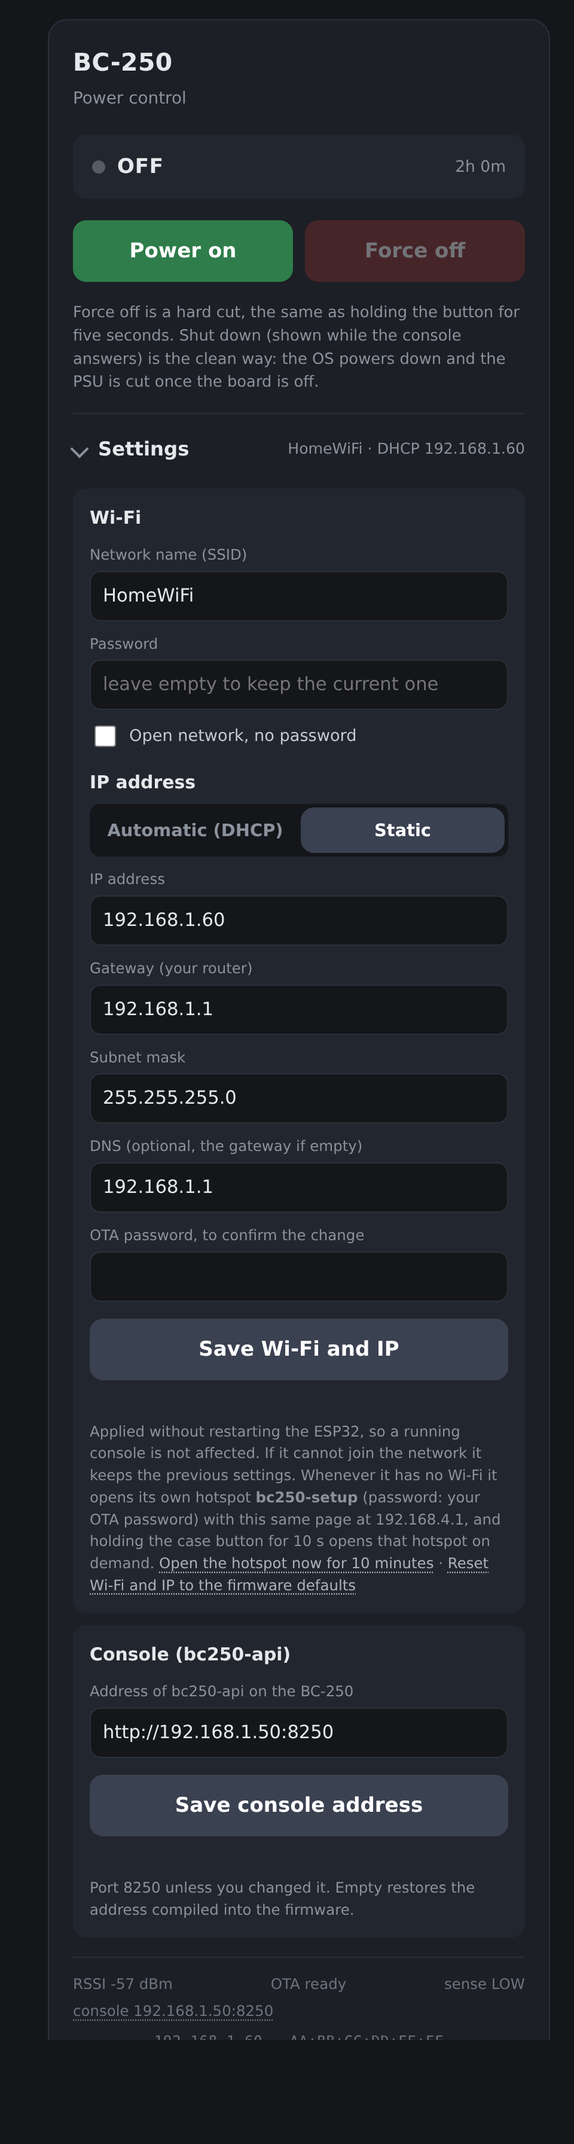
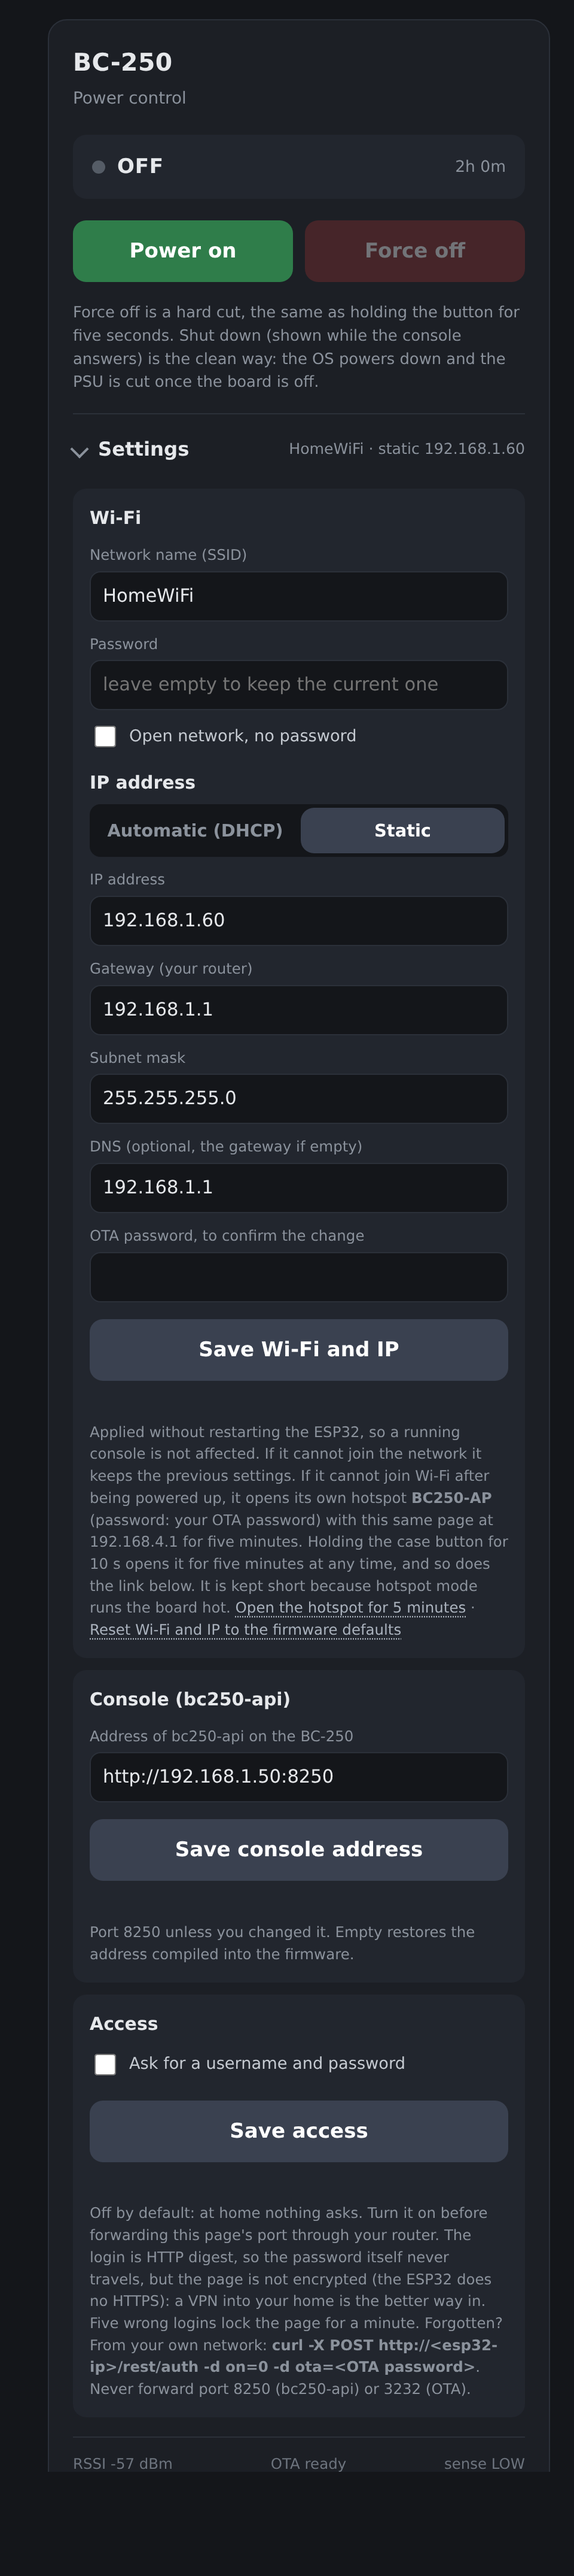
ESP32 page: optional login (digest), off by default, for a forwarded port
For those who want to power the console from outside the house through a
NAT-forwarded port. Off by default, so nothing changes at home. The Access
box under Settings turns it on with a username and password; that needs the
OTA password once (a change that can lock the owner out, like /rest/net),
and from then on being logged in is enough to change them or turn it off.
Every handler starts with authGate(): the page, /rest/status, the power
buttons and the settings all ask for it.

HTTP digest, so the password never travels, verified by the sketch itself:
WebServer::authenticate() keeps only the last nonce it issued, so with two
browsers open each request would be re-challenged and every miss would look
like a wrong password. A ring of four nonces (10 min) instead, and only a
wrong response to a known nonce counts. Five wrong logins lock the page for a
minute; each wrong one costs 300 ms. A forgotten password is undone with
the OTA password: POST /rest/auth on=0 ota=... gets past the gate on purpose,
the only such path. /rest/status carries "auth"; the footer says "login on".

The docs say plainly what this is: a lock, not a vault. The ESP32 does no
HTTPS, so the traffic is readable; a VPN home is the better way in, and if
forwarding, only port 80, never 8250 or 3232. Settings screenshot re-rendered.

Verified on hardware: login off, everything open; on with the OTA password,
plain requests get 401 + Digest challenge; curl --digest passes for GET, the
[…]

Changed region(s): [[0.125, 0.0, 0.9375, 0.9606], [0.5, 0.3719, 0.875, 0.4028]]

diff --git a/docs/power-page.md b/docs/power-page.md
@@ -55,10 +55,10 @@ or the service not installed) the panel shows a short notice with **retry** and 
 links and a pointer to [Stats and switches over the network](api.md), and it says `asleep` during a fake sleep.
 The footer's `console …` entry shows the `bc250-api` address; tapping it opens **Settings**.
 
-## Settings: Wi-Fi, IP address, console address
+## Settings: Wi-Fi, IP address, console address, login
 
 <p align="center">
-  <img src="images/esp32-settings.png" alt="The Settings section of the ESP32 page: Wi-Fi name and password, DHCP or static IP with address, gateway, mask and DNS, the OTA password to confirm, and a separate box for the bc250-api address" width="300">
+  <img src="images/esp32-settings.png" alt="The Settings section of the ESP32 page: Wi-Fi name and password, DHCP or static IP with address, gateway, mask and DNS, the OTA password to confirm, a box for the bc250-api address, and the Access box with the login checkbox" width="300">
 </p>
 
 Everything that used to need a reflash lives in one collapsible **Settings** section at the bottom of
@@ -123,12 +123,34 @@ As a last resort, if Wi-Fi stays down for an hour **while the console is off**, 
 itself to come back with a fresh radio; that restart does not count as a power-up, so it opens no
 hotspot. It never restarts while the console runs.
 
+**Access: a login for the page.** Off by default, so at home nothing asks. The **Access** block under
+Settings turns it on with a username and a password (8 to 63 characters); turning it on needs the OTA
+password, like every change that could lock you out, and once on, being logged in is enough to change
+the username or password or to turn it off again. With the login on, the page and every `/rest/…`
+call (status, the power buttons, the settings) ask for it; the browser shows its own login box, and
+the footer says `login on`. Five wrong logins lock the page for a minute, for everyone. A forgotten
+password is undone from your own network with the OTA password:
+`curl -X POST http://<esp32-ip>/rest/auth -d on=0 -d ota=<OTA password>`.
+
+{: .warning }
+> This is what lets you forward the page's port (80) through your router so the console can be
+> powered from anywhere, and it is a lock, not a vault. The login is HTTP digest: the password itself
+> never travels, but nothing else is encrypted, since the ESP32 does no HTTPS: what the page shows
+> (state, addresses, the console's stats) is readable on the way, and a forwarded port is a target
+> for guessing, which the lock-out only slows. A VPN into your home (WireGuard on the router,
+> Tailscale) is the better way to reach it, with no login needed. If you forward anyway: only port
+> 80 of the ESP32, never 8250 (`bc250-api` has no login and takes tune settings and shutdowns), never
+> 3232 (OTA), and never the console itself. The console panel on the page will not load from
+> outside, since it comes from `bc250-api` on the LAN: the power buttons and Settings still work.
+
 | Endpoint | What |
 |----------|------|
 | `GET /rest/net` | current and saved network settings, without the password; `last_error` after a rollback |
 | `POST /rest/net` | `ssid`, `pass`, `open`, `mode=dhcp\|static`, `ip`, `gw`, `mask`, `dns`, `ota`; `reset=1` returns to the compiled defaults |
 | `POST /rest/hotspot` | `ota`; opens the hotspot for five minutes (`secs=30…300`), `off=1` closes it |
 | `GET /rest/console?url=…` | the `bc250-api` address; empty restores the compiled default |
+| `GET /rest/auth` | whether the login is on, and the username |
+| `POST /rest/auth` | `on=0\|1`, `user`, `pass` (empty keeps the current one), `ota` (needed to turn it on, and gets past a forgotten login) |
 
 * The button does what [the table at the top](#the-button) says: a click powers on, or sleeps and
   wakes a running console; two clicks shut it down cleanly; a 5 s hold forces the PSU off (this only
@@ -139,8 +161,8 @@ hotspot. It never restarts while the console runs.
   a hard cut. `/rest/status` also carries `console`, the `bc250-api` address the page polls;
   `/rest/console?url=…` changes it without a reflash, and `/rest/net` does the same for Wi-Fi and IP
   (see Settings above). For bench checks without a serial cable it also has `temp` (chip, °C), `btn` and
-  `presses` (the button, on pad `7` or `10`), `lows` (other free pads pulled to ground since boot) and
-  `pins` (the live level of every pad).
+  `presses` (the button, on pad `7` or `10`), `lows` (other free pads pulled to ground since boot),
+  `pins` (the live level of every pad) and `auth` (whether the login is on).
 * After a mains outage the machine stays off and waits for a press. To change that, call `psuOn()` at
   the end of `setup()` instead of entering `ST_OFF`.
 * An ESP32 crash or watchdog reset cuts a running machine: the LED goes dark before any code runs.

diff --git a/AGENTS.md b/AGENTS.md
@@ -96,6 +96,12 @@ depend on each other.
   `homebrew.sunshine`, the formula creates `app-dev.lizardbyte.app.Sunshine`), its `sudo` step needs a
   tty, and `ujust setup-sunshine status` mistakes the brew unit for the Flatpak. `step_sunshine` in
   `install.sh` therefore checks the Cellar, sets the capabilities itself and restarts the unit.
+* **Every HTTP handler in the sketch starts with `if (!authGate()) return;`.** The optional login (off
+  by default, NVS `auth_on`) is enforced per handler, so a new endpoint without that line is an open
+  door. Digest is verified by the sketch's own `authCheck()`, not `WebServer::authenticate()`: that one
+  remembers a single nonce, so two open browsers would re-challenge each other on every request and
+  each miss would count as a wrong password. `/rest/auth` with the OTA password bypasses the gate on
+  purpose (the way back from a forgotten password); keep it the only such path.
 * **`flash.sh` deletes the old binary before compiling.** It once reported success after a failed
   compile because a stale `.bin` was still there.
 * **systemd ordering cycles.** `bc250-tune.service` is `After=multi-user.target` and wanted by it. A

diff --git a/README.md b/README.md
@@ -24,6 +24,7 @@ was built from these instructions alone.
   front button and a web page with Power on, Shut down, Sleep and Force off, live stats (FPS, clocks,
   temperatures, watts, fan) and every tuning switch. Wi-Fi, a static IP and the console address are
   set from the page, and with no Wi-Fi it opens its own hotspot, so it never needs a reflash to move.
+  An optional login (off by default) is there for those who forward the page's port.
   [Soft power control](https://lethevimlet.github.io/lethe-bc250/power.html)
 * <a id="46-stats-and-switches-over-the-network-bc250-api"></a>**Stats and switches over the LAN.**
   `bc250-api` is a tiny REST service on the console that feeds that page, and anything else you point
